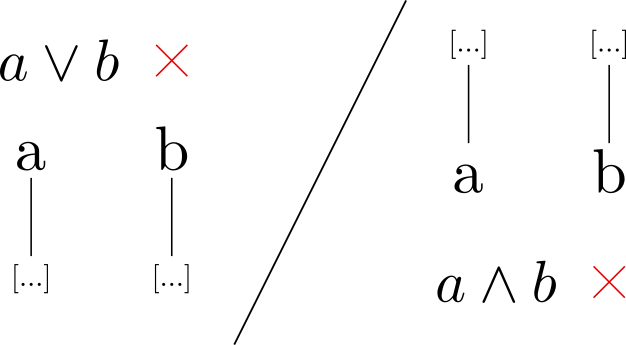
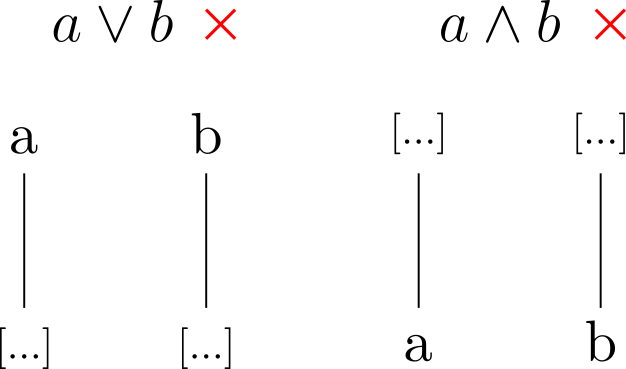
Fix Lattice images and add missing rbrace

diff --git a/content/2020-12-23-lattice-posets.md b/content/2020-12-23-lattice-posets.md
@@ -13,12 +13,12 @@ Continuing with Discrete Mathematics (because I am too lazy to create nice graph
 Let's quickly recall what it means for a poset to be a lattice:
 A poset in which every pair of elements has a meet (= greatest lower bound) and a join (= least upper bound) is called a lattice.
 
-![Hasse diagram of the poset](/img/lattice.png)
+![Hasse diagram of the poset](/img/lattice.svg)
 
 A visualization of the poset as a Hasse diagram would look like the image above. Now, as an example, let us try and pick any pair of elements, say $3$ and $6$. Then, the upper bounds of this pair are all elements $x$ such that $x \ge 3$ and $x \ge 6$. As one can easily find out by looking at the image, the upper bounds of $3$ and $6$ in this poset are $6$ and $12$. 
 Thus, the lowest upper bound of $3$ and $6$, so the join, is $6$. As you may recall, an alternative notation for the join is $3 \lor 6 = 6$. The same applies dually for greatest lower bounds.
 
-Now, the question remains if every pair of elements has such a join and a meet. In this example, we can clearly see that both $\lbrace 6, 9 \rbrace$ and $\lbrace 9, 12$ have no common upper bound. Therefore, we can already conclude that this poset is not a lattice. More generally, if a finite poset does not have a least and a greatest element, it cannot be a lattice as visible in this figure: 
+Now, the question remains if every pair of elements has such a join and a meet. In this example, we can clearly see that both $\lbrace 6, 9 \rbrace$ and $\lbrace 9, 12 \rbrace$ have no common upper bound. Therefore, we can already conclude that this poset is not a lattice. More generally, if a finite poset does not have a least and a greatest element, it cannot be a lattice as visible in this figure: 
 
 ![Visual proof why a lattice needs to have a least and greatest element](/img/lattice_greatest_least.png)
 
